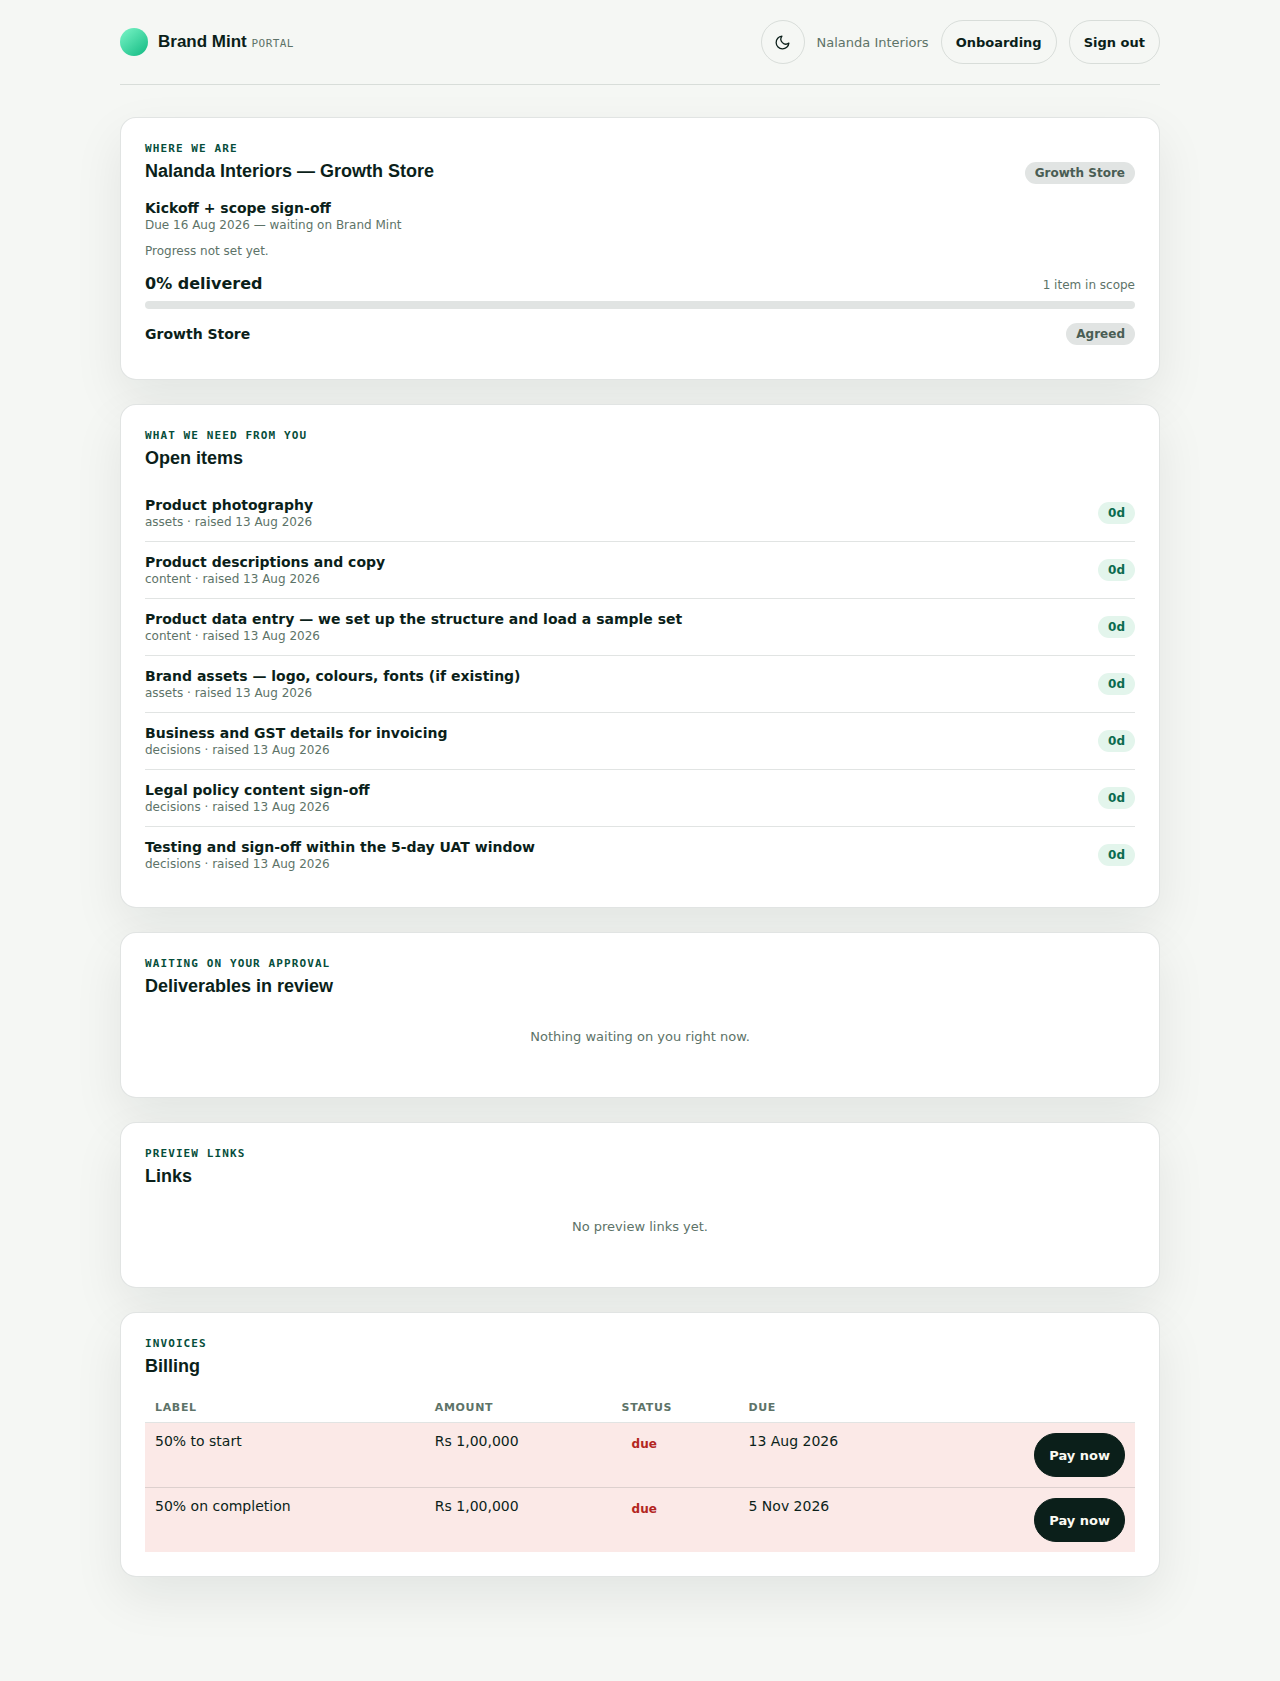
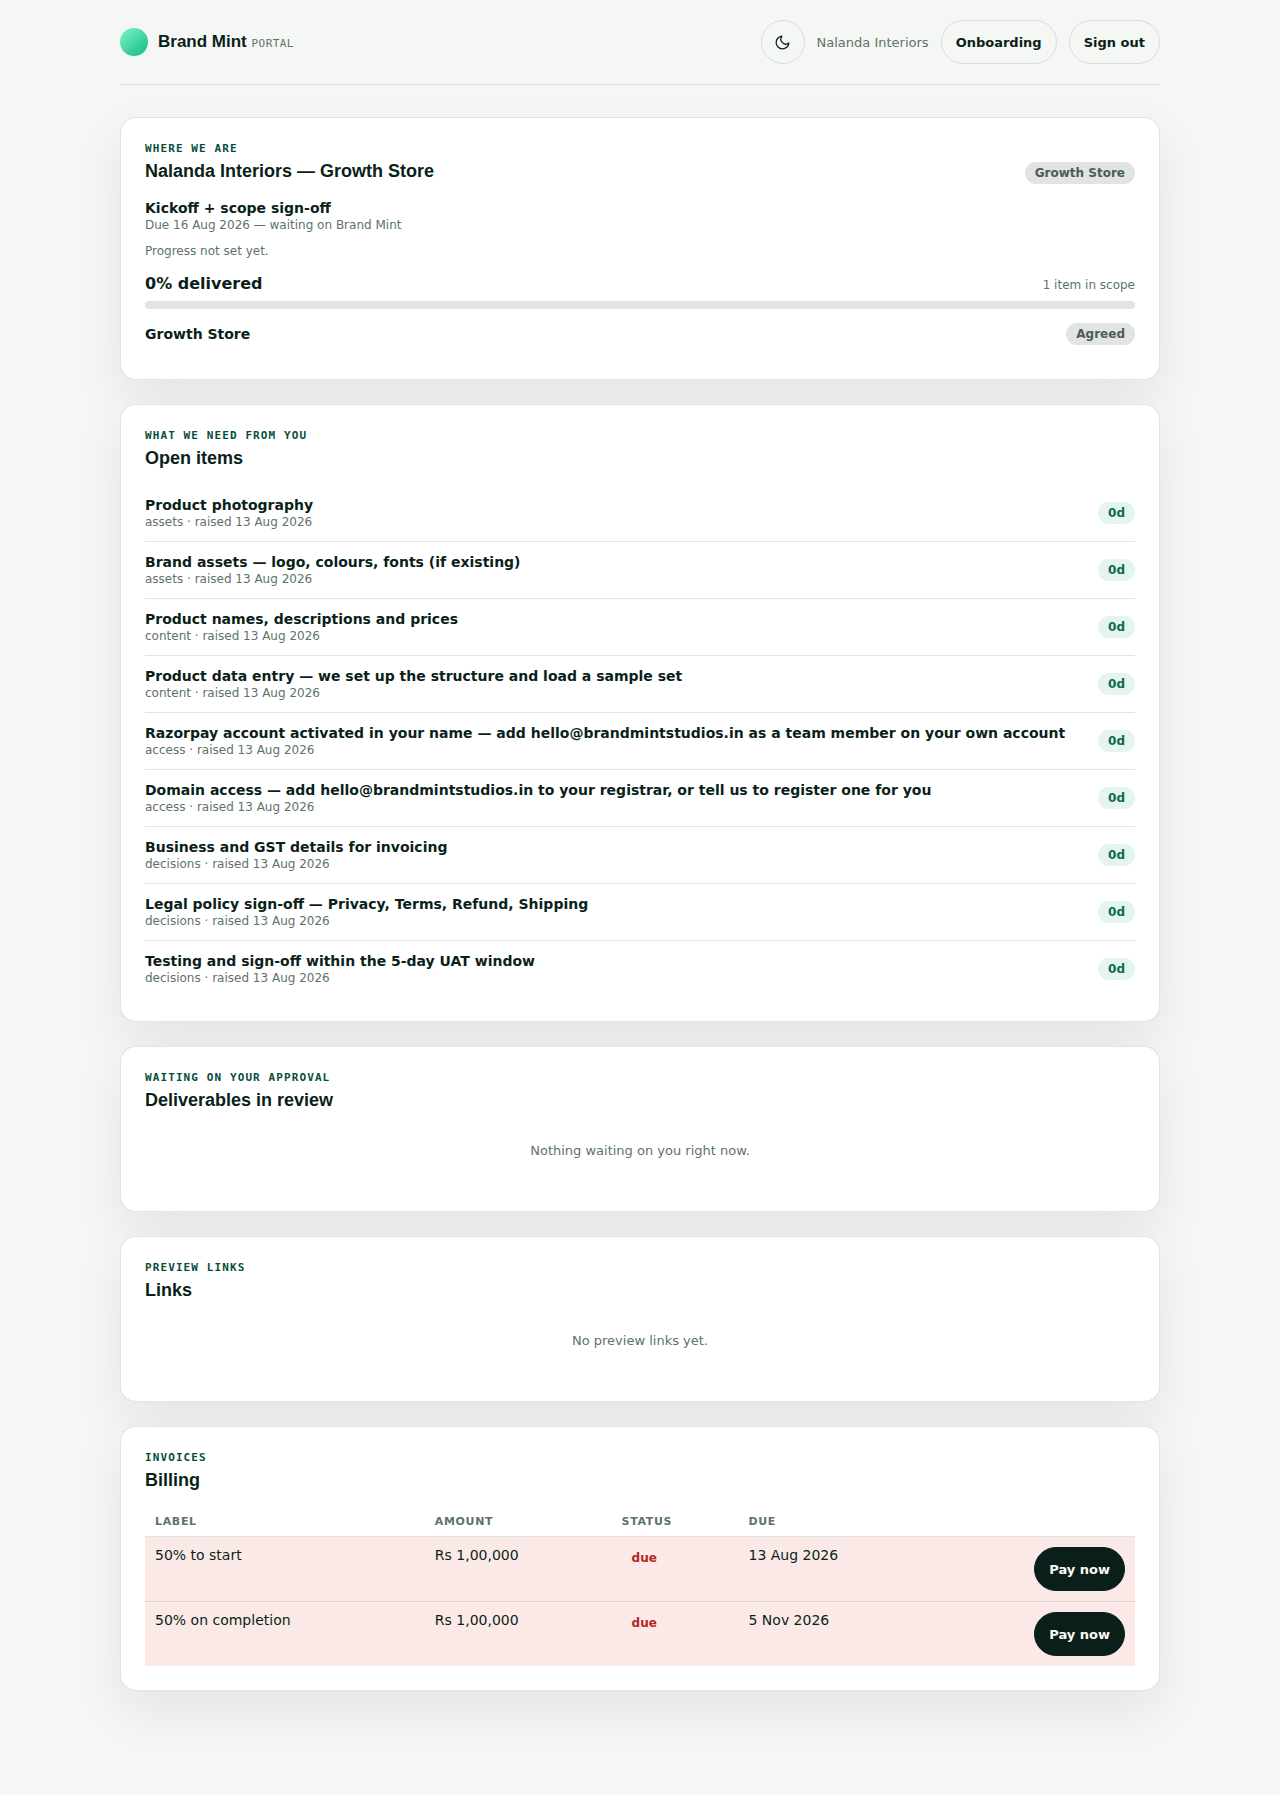
docs: kickoff asks for the same nine things the portal is already chasing
The kickoff's materials table listed seven items where CLIENT_PROVIDES has
nine, and it read as the definitive list because it is the one with dates
against it. A client working from it would never be asked for product data
entry or UAT sign-off in writing, while the portal chased them anyway.

It now matches, and says outright that the portal already holds the same list
with the age of each item — so the table is a summary of something the client
can check themselves rather than the only place it exists.

It also states, in the document the client actually reads at kickoff, that the
two account items are "add hello@brandmintstudios.in to your own account", that
we never ask for a password or a key, and that anyone who does is not from
Brand Mint. That warning is worth more to a client than it is to us.

Claude-Session: https://claude.ai/code/session_015wUwdekkUMPxwMLKaBipDA

diff --git a/docs/client-docs/02-build/KICKOFF.md b/docs/client-docs/02-build/KICKOFF.md
@@ -35,15 +35,26 @@ All decisions come through the Approver. This keeps the project from stalling on
 
 ## What we need from you, and by when
 
+**This same list is already live on your portal**, with the date each item was
+raised and how long it has been outstanding. You can check it whenever you like
+without asking us — that is what it is there for.
+
 | Item | Needed by | Status |
 |---|---|---|
-| Logo and brand files | {{DATE}} | ☐ |
-| Product photographs | {{DATE}} | ☐ |
-| Product names, descriptions, prices | {{DATE}} | ☐ |
-| GST and business details | {{DATE}} | ☐ |
-| Razorpay account activated | {{DATE}} | ☐ |
+| Product photography | {{DATE}} | ☐ |
+| Brand assets — logo, colours, fonts | {{DATE}} | ☐ |
+| Product names, descriptions and prices | {{DATE}} | ☐ |
+| Product data entry — we set up the structure and load a sample set | {{DATE}} | ☐ |
+| Razorpay account activated in your name | {{DATE}} | ☐ |
 | Domain access | {{DATE}} | ☐ |
-| Policy content sign-off | {{DATE}} | ☐ |
+| Business and GST details for invoicing | {{DATE}} | ☐ |
+| Legal policy sign-off — Privacy, Terms, Refund, Shipping | {{DATE}} | ☐ |
+| Testing and sign-off within the 5-day UAT window | {{DATE}} | ☐ |
+
+For the two account items you add **hello@brandmintstudios.in** as a user on
+your own account — we never ask for a password or a key, and you can revoke the
+access at any time. If anyone claiming to be from Brand Mint asks you to send a
+credential, they are not from Brand Mint.
 
 ## Accounts to set up in your name
 
